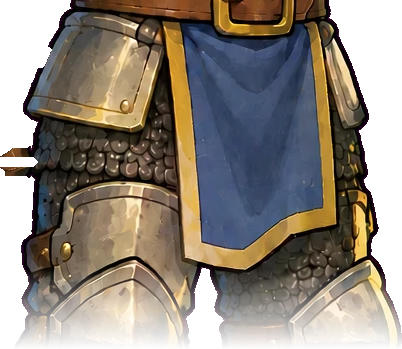
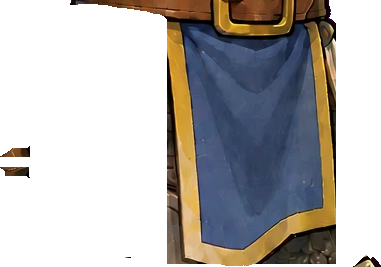
Markup rig: hip filler excludes leg armour (no ghost thigh plates)

diff --git a/tools/anim_markup_rig.py b/tools/anim_markup_rig.py
@@ -84,8 +84,8 @@ def split_markup(a, t, belt, sections, keep_torso=None):
 
     # static underlay between the thighs, faded out toward the knees
     hz = vis & (yy > belt) & (yy < t["knee_y"])
-    for s in ("n", "f"):
-        hz &= ~limb["arm_" + s] & ~limb["farm_" + s]
+    for s in ("n", "f"):   # only what lies between the legs (chainmail), never the leg armour itself
+        hz &= ~limb["arm_" + s] & ~limb["farm_" + s] & ~limb["thigh_" + s] & ~limb["shin_" + s]
     hips = a.copy()
     hips[~hz, 3] = 0
     hips[..., 3] = (hips[..., 3] * np.clip((t["knee_y"] - yy) / 80.0, 0, 1)).astype(np.uint8)
